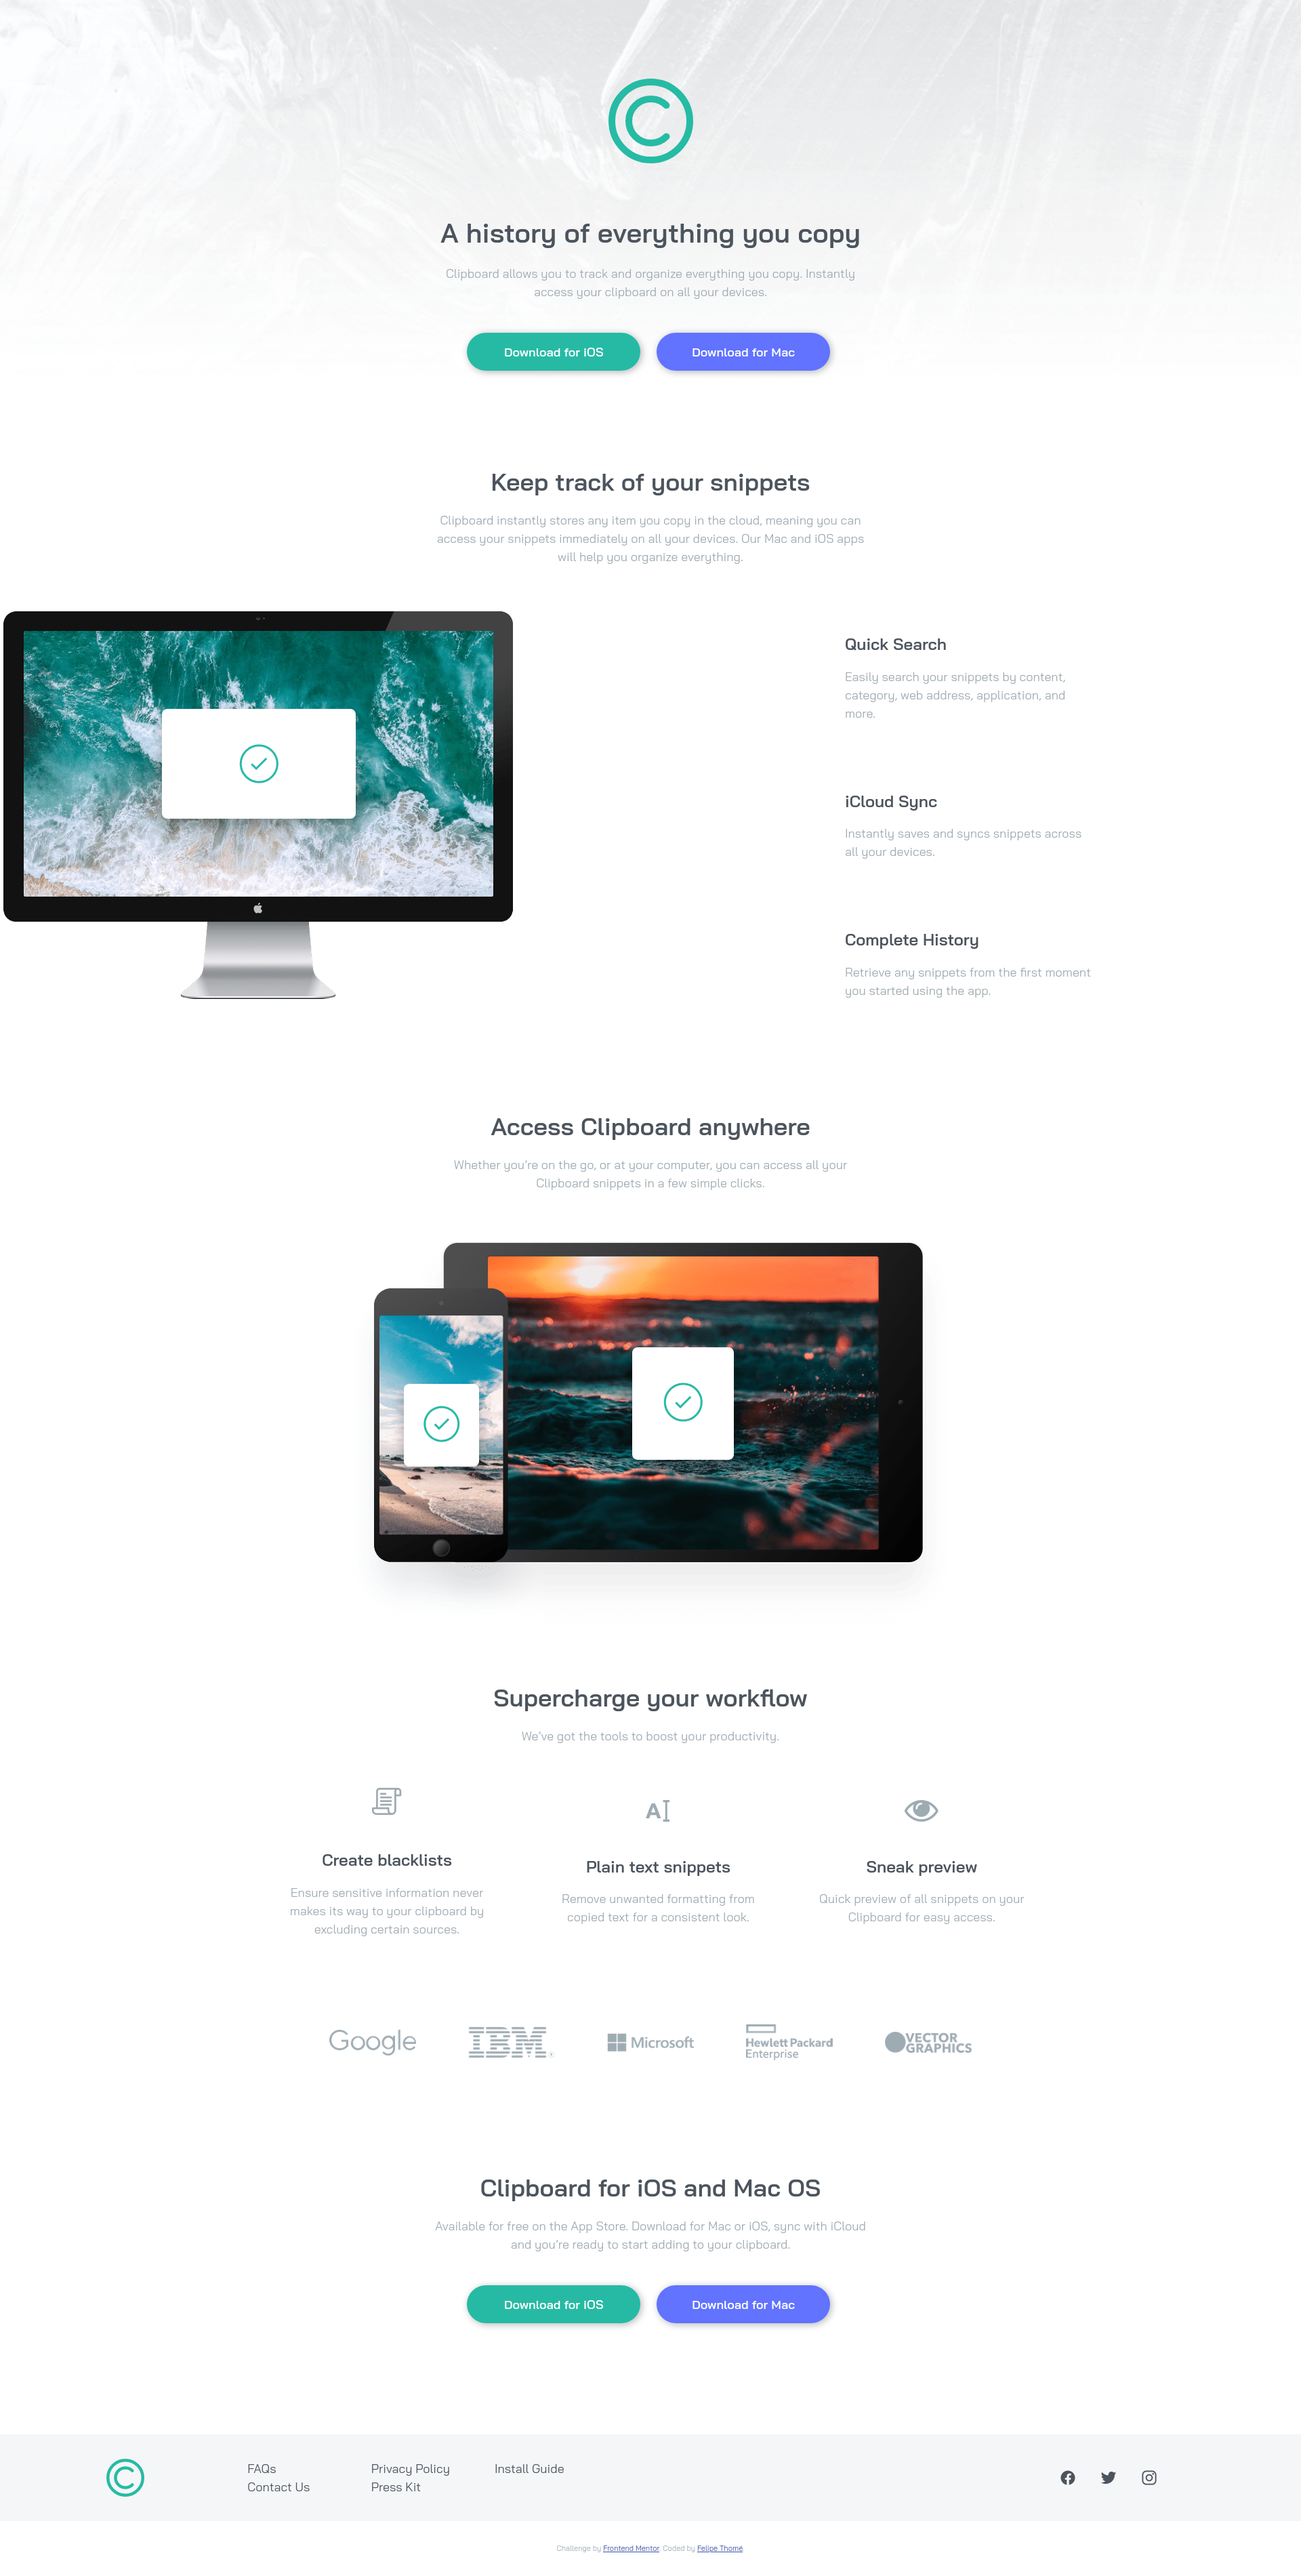
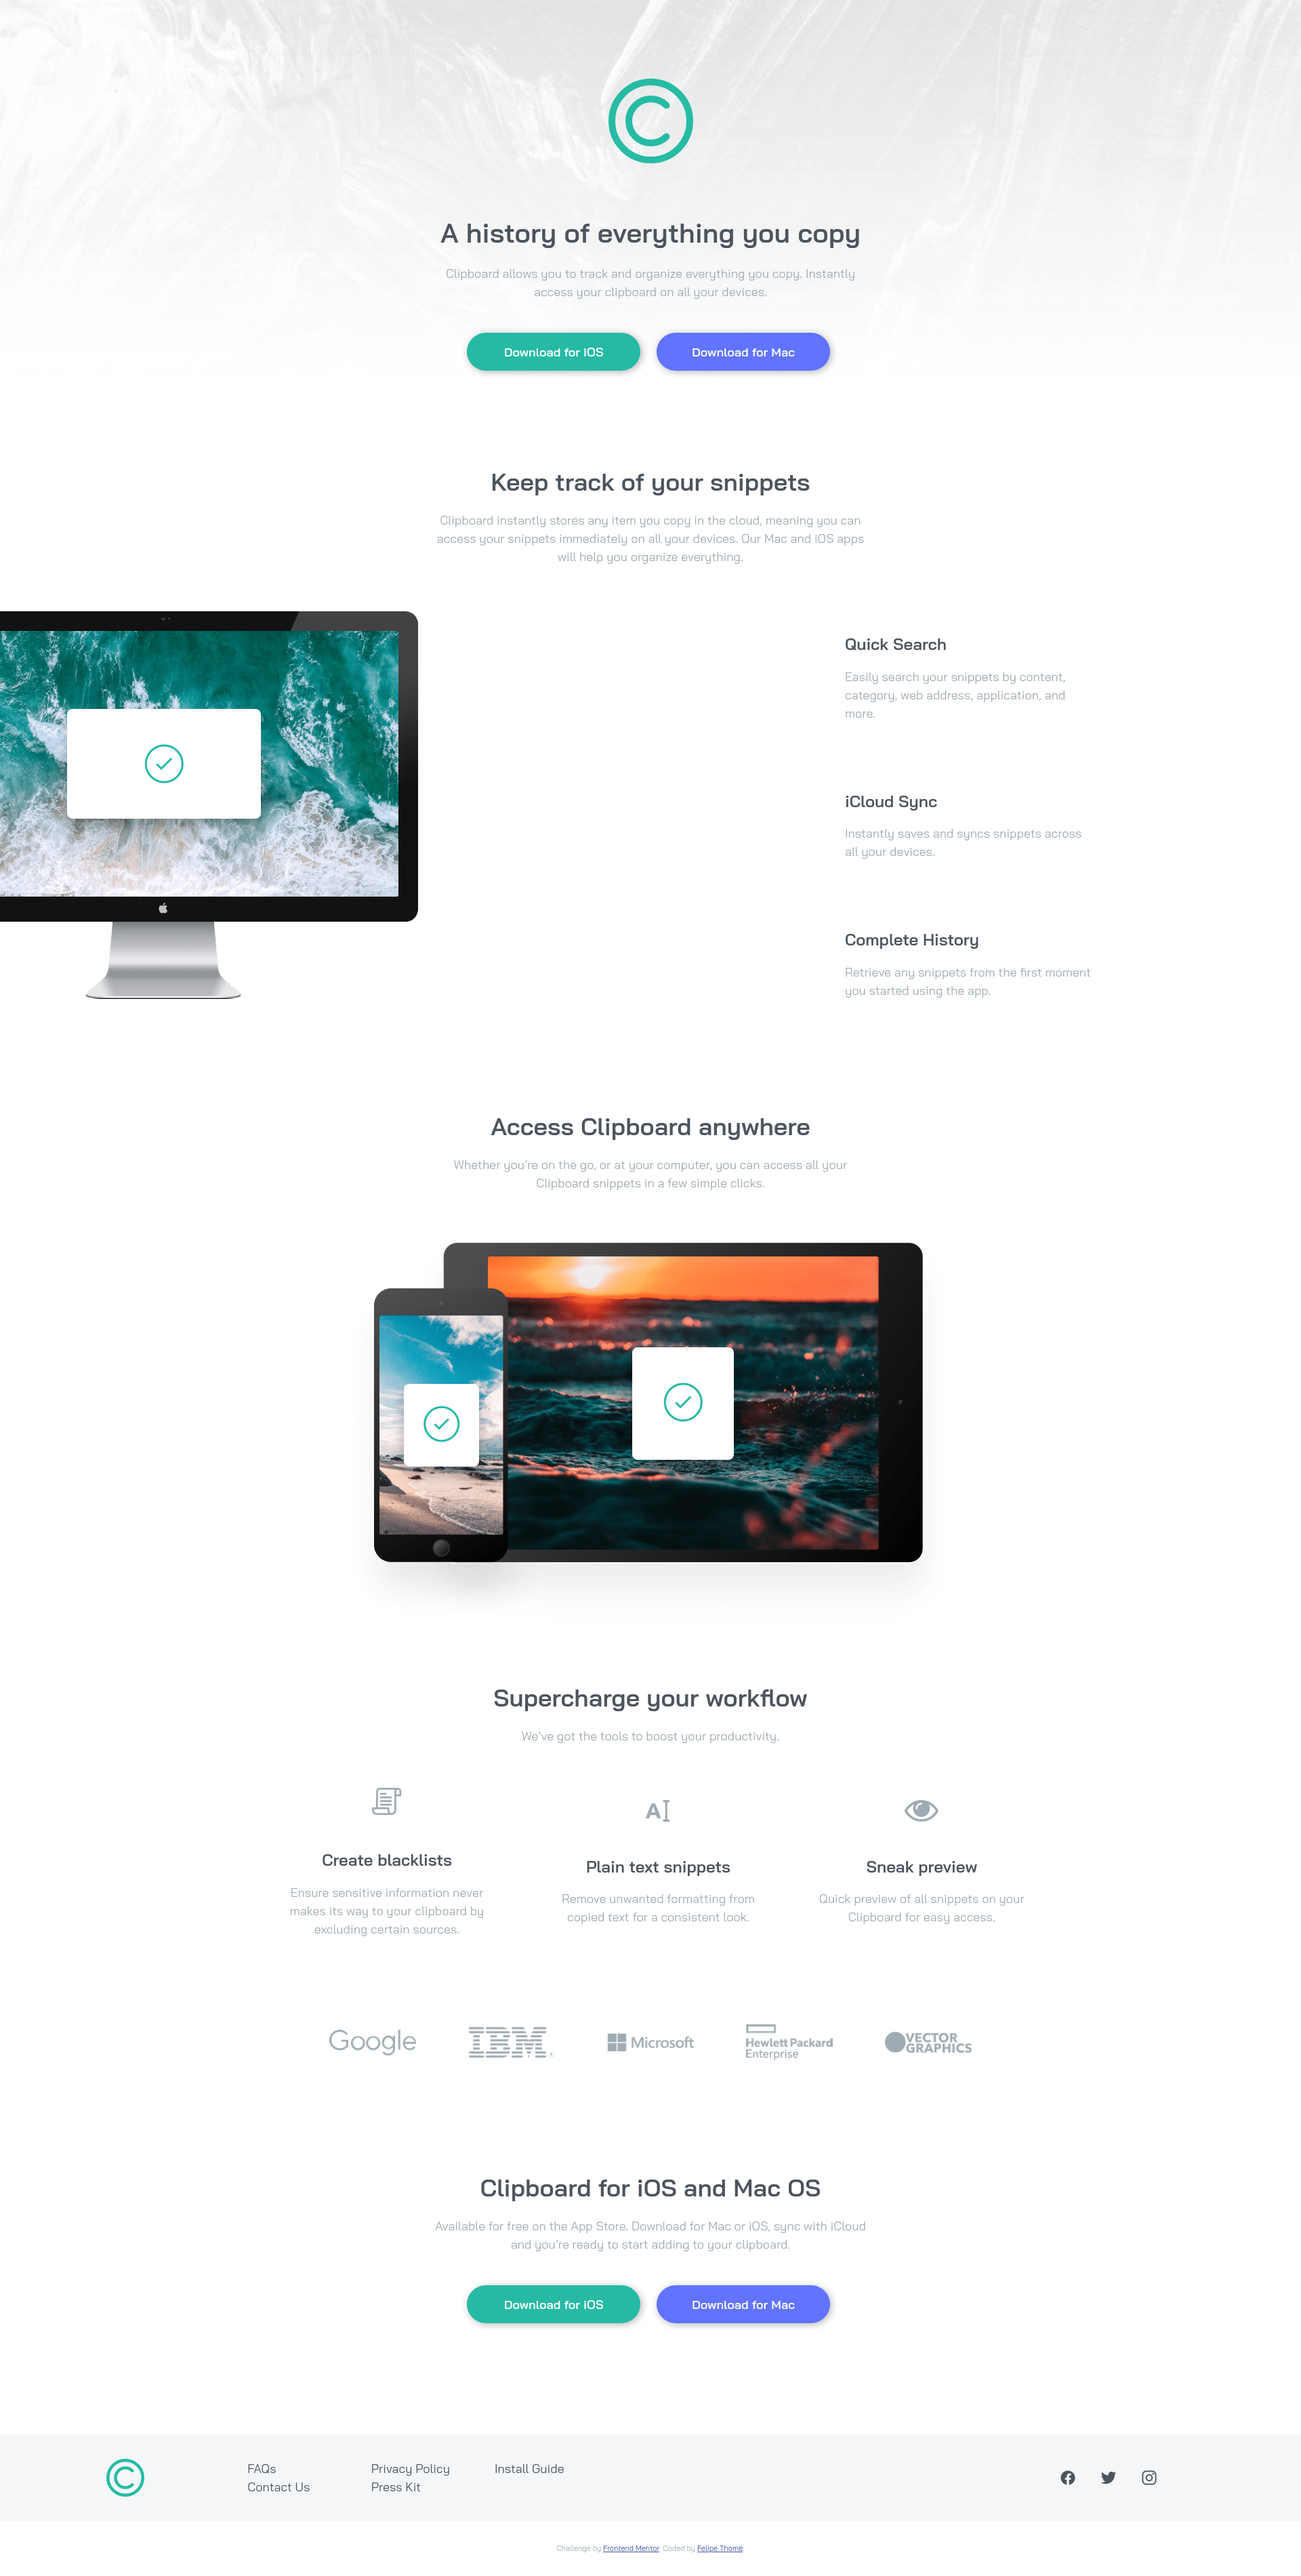
update readme

Changed region(s): [[0.0, 0.2173, 0.4062, 0.4036]]

diff --git a/styles/style.css b/styles/style.css
@@ -353,7 +353,7 @@ ion-icon:hover {
   }
 
   .keep > img {
-    transform: translateX(-6em);
+    transform: translateX(-33%);
   }
 
   .left_alignment > * {
